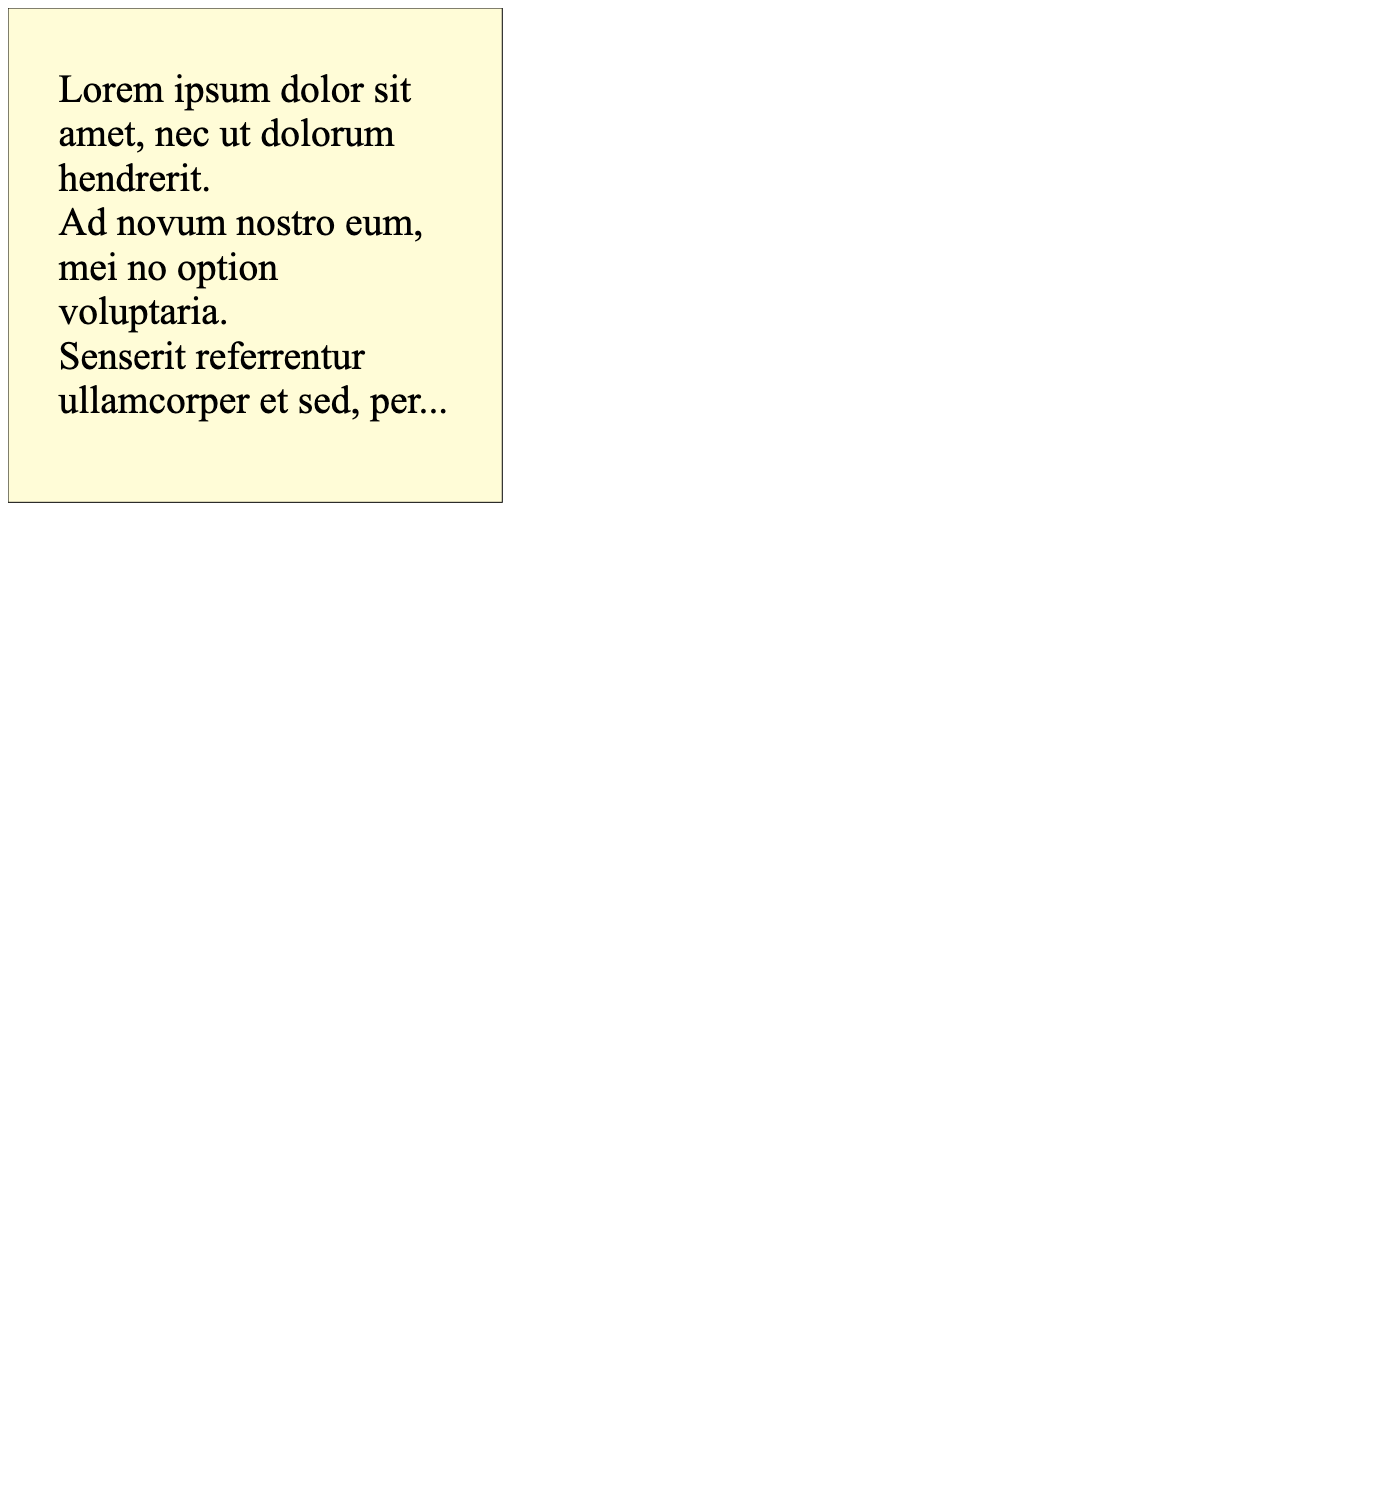
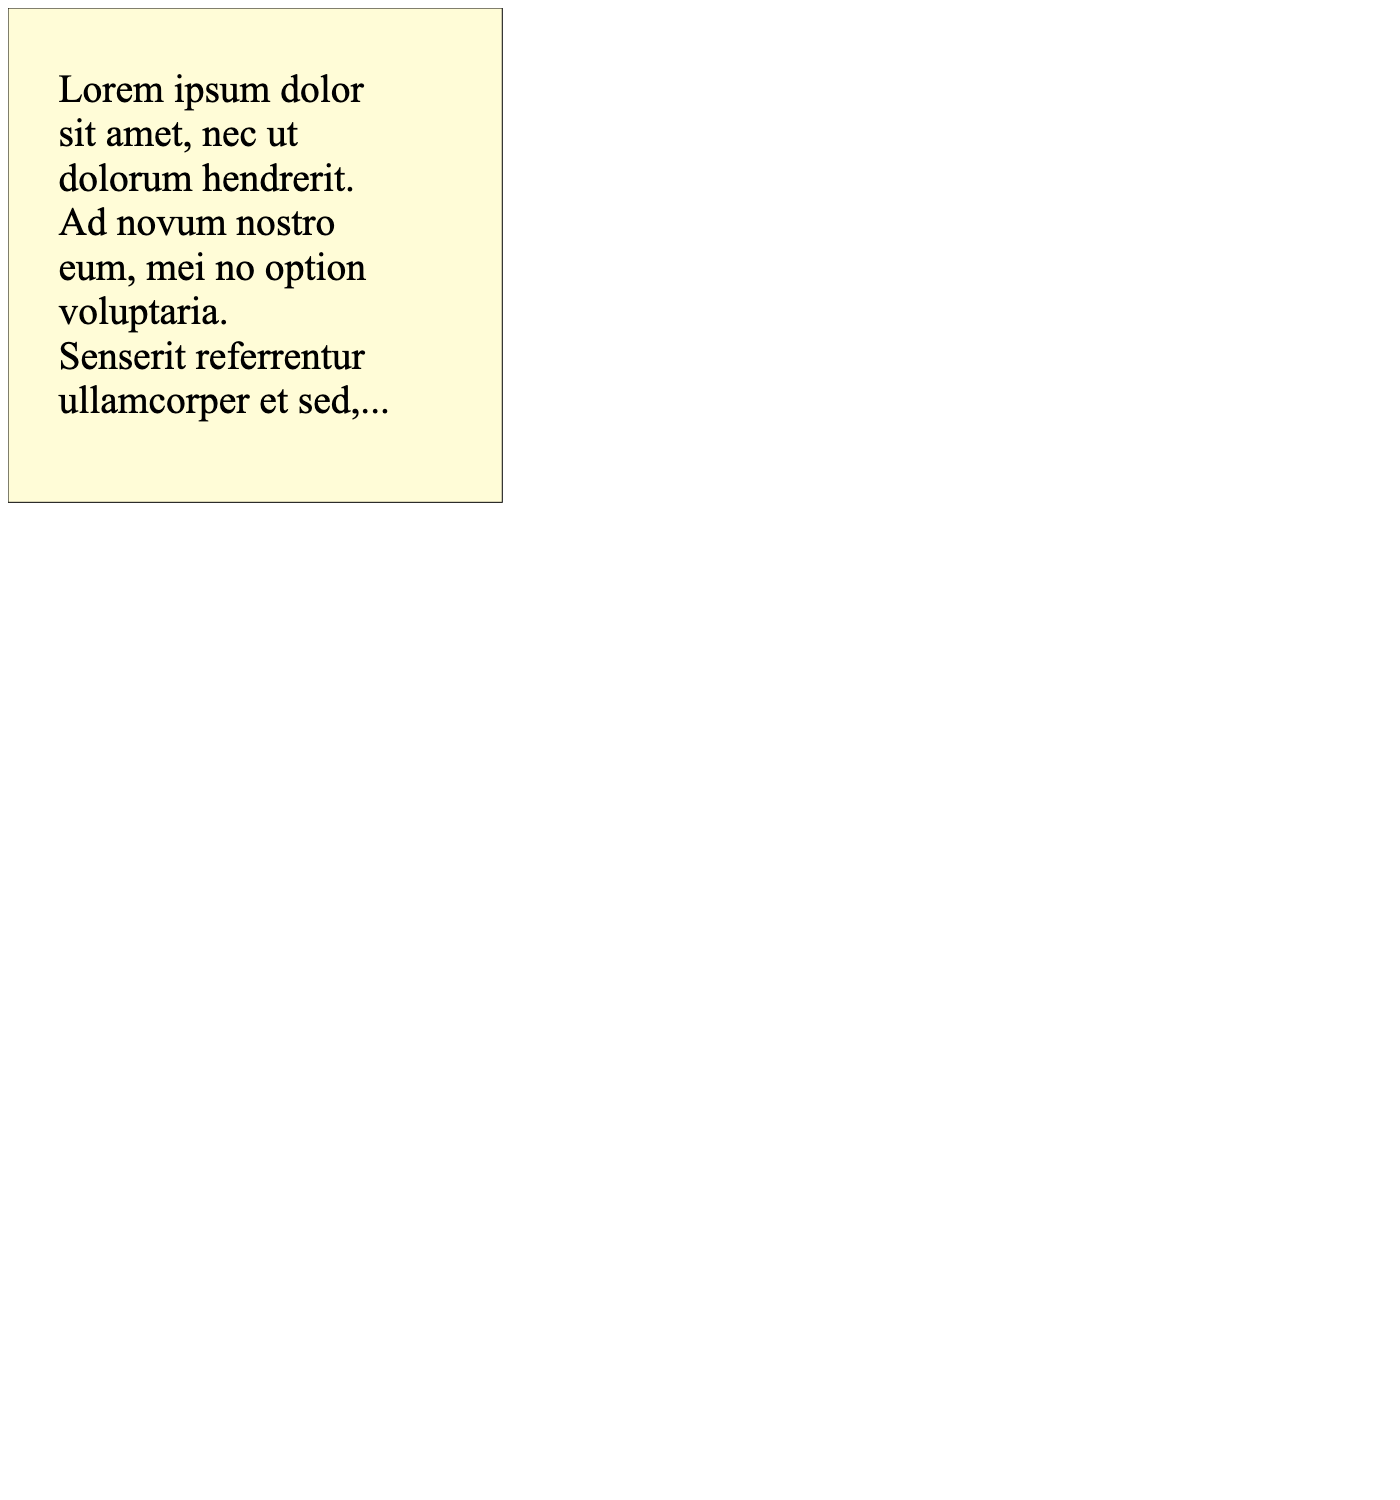
optionCombinations tests & screenshots

Changed region(s): [[0.0307, 0.0613, 0.2764, 0.184], [0.2457, 0.2453, 0.3071, 0.276]]

diff --git a/__tests__/integration/optionCombinations.integration.test.js b/__tests__/integration/optionCombinations.integration.test.js
@@ -33,13 +33,13 @@ describe('Option Combinations - ', () => {
 
     });
 
-    test('Padding and justifyText', async () => {
+    test('Padding and justifyText and align right --> alignment is ignored', async () => {
 
         const testPadding = async (p) => await page.evaluate((text, config, p) => {
 
             const options = {
                 ...config.options,
-                align: 'left',
+                align: 'right',
                 padding: 50,
                 justifyText: true,
                 style: {
@@ -79,9 +79,162 @@ describe('Option Combinations - ', () => {
         const result = await testPadding(50);
         await page.screenshot({ path: __dirname + '/screenshots/padding-with-justified-text.png' });
         result.forEach((item) => {
-            expect(item.width).toBeGreaterThanOrEqual(380);
+            expect(item.width).toBeGreaterThanOrEqual(370);
             expect(item.width).toBeLessThanOrEqual(400);
         })
+
+    })
+
+    test('Padding and align left', async () => {
+
+        const testPadding = async (p) => await page.evaluate((text, config, p) => {
+
+            const options = {
+                ...config.options,
+                align: 'left',
+                padding: 50,
+                style: {
+                    ...config.options.style
+                }
+            }
+
+            const elemAttributes = {
+                ...config.elemAttributes,
+                id: 'rect',
+                x: 0,
+                y: 0,
+                height: 500,
+                width: 500
+            }
+
+            const svg = document.querySelector('svg');
+            const elem = document.createElementNS('http://www.w3.org/2000/svg', 'rect');
+            Object.entries(elemAttributes).forEach(([key, value]) => {
+                elem.setAttribute(key, value)
+            });
+
+            svg.appendChild(elem);
+
+            textInShape(text, elem, options);
+
+            const textGrp = document.getElementById('text-in-' + elemAttributes.id);
+
+            return Array.from(textGrp.children).map(e => {
+                const bbox = e.getBBox();
+                const { x, y, width } = bbox;
+                return { x, y, width };
+            });
+
+        }, text, config, p)
+
+        const result = await testPadding(50);
+        await page.screenshot({ path: __dirname + '/screenshots/padding-with-align-left.png' });
+        result.forEach((item) => {
+            expect(item.x).toBeLessThanOrEqual(52);
+
+        })
+
+    })
+
+    test('Padding and align right', async () => {
+
+        const testPadding = async (p) => await page.evaluate((text, config, p) => {
+
+            const options = {
+                ...config.options,
+                align: 'right',
+                padding: 50,
+                style: {
+                    ...config.options.style
+                }
+            }
+
+            const elemAttributes = {
+                ...config.elemAttributes,
+                id: 'rect',
+                x: 0,
+                y: 0,
+                height: 500,
+                width: 500
+            }
+
+            const svg = document.querySelector('svg');
+            const elem = document.createElementNS('http://www.w3.org/2000/svg', 'rect');
+            Object.entries(elemAttributes).forEach(([key, value]) => {
+                elem.setAttribute(key, value)
+            });
+
+            svg.appendChild(elem);
+
+            textInShape(text, elem, options);
+
+            const textGrp = document.getElementById('text-in-' + elemAttributes.id);
+
+            return Array.from(textGrp.children).map(e => {
+                const bbox = e.getBBox();
+                const { x, y, width } = bbox;
+                return { x, y, width };
+            });
+
+        }, text, config, p)
+
+        const result = await testPadding(50);
+        await page.screenshot({ path: __dirname + '/screenshots/padding-with-align-right.png' });
+        result.forEach((item) => {
+            expect(item.x + item.width).toBeGreaterThanOrEqual(448);
+            expect(item.x + item.width).toBeLessThanOrEqual(450);
+        })
+
+    })
+
+    test('Padding and align center', async () => {
+
+        const result = await page.evaluate((text, config) => {
+
+            const options = {
+                ...config.options,
+                align: 'center',
+                padding: 50,
+                style: {
+                    ...config.options.style
+                }
+            }
+
+            const elemAttributes = {
+                ...config.elemAttributes,
+                id: 'rect',
+                x: 0,
+                y: 0,
+                height: 500,
+                width: 500
+            }
+
+            const svg = document.querySelector('svg');
+            const elem = document.createElementNS('http://www.w3.org/2000/svg', 'rect');
+            Object.entries(elemAttributes).forEach(([key, value]) => {
+                elem.setAttribute(key, value)
+            });
+
+            svg.appendChild(elem);
+
+            textInShape(text, elem, options);
+
+            const textGrp = document.getElementById('text-in-' + elemAttributes.id);
+
+            return Array.from(textGrp.children).map(e => {
+                const bbox = e.getBBox();
+                const { x, y, width } = bbox;
+                return { x, y, width };
+            });
+
+        }, text, config)
+
+        await page.screenshot({ path: __dirname + '/screenshots/padding-with-align-center.png' });
+        result.forEach((item) => {
+            expect(item.x + (item.width / 2)).toBeGreaterThanOrEqual(248);
+            expect(item.x + (item.width / 2)).toBeLessThanOrEqual(252);
+        })
+
 
     })
 
